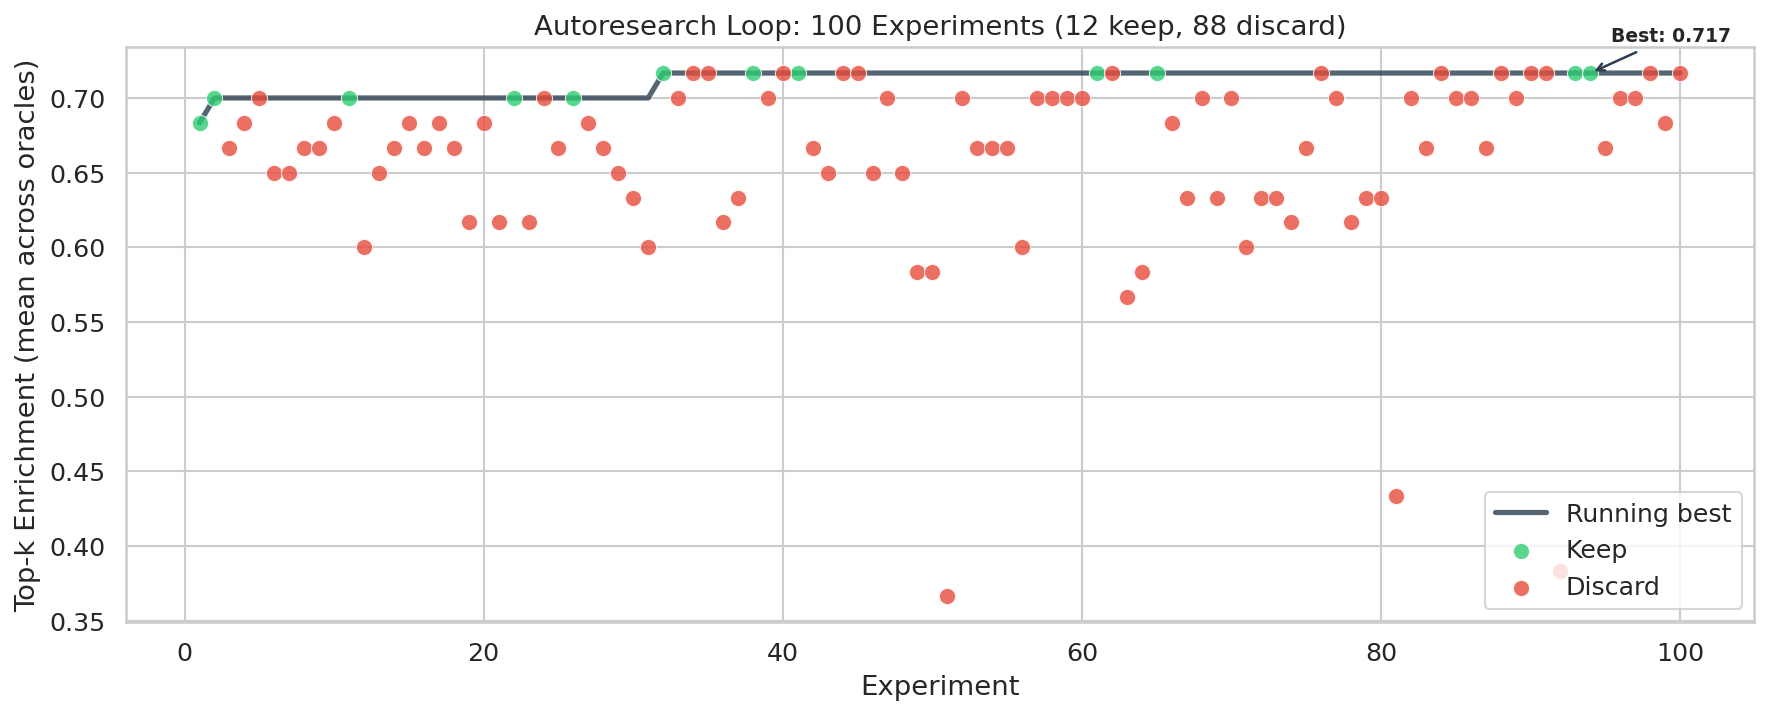
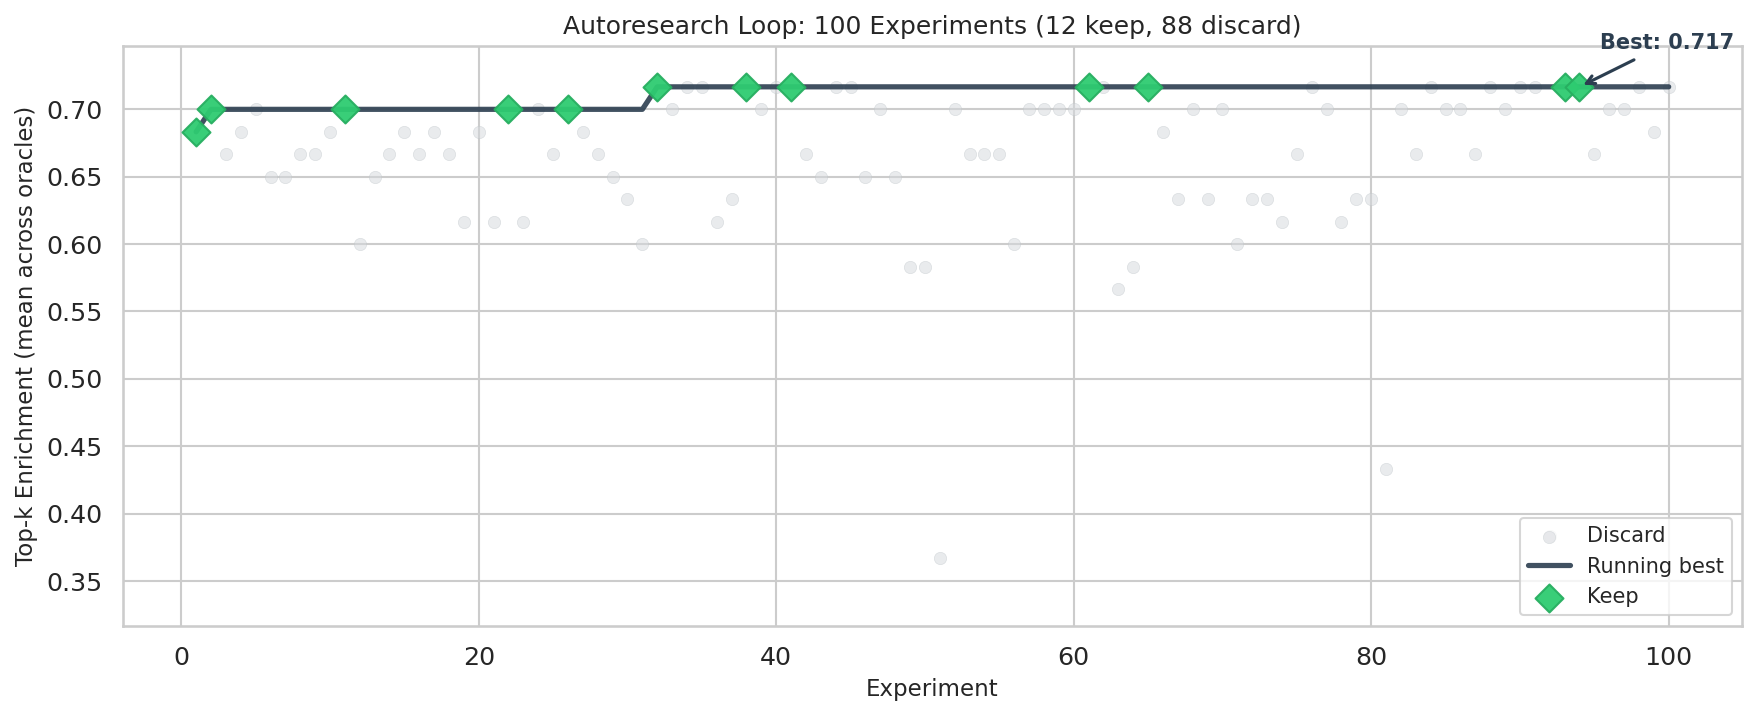
fix: fig2 use linear zoom, faded grey discards, green diamond keeps
Replaced symlog with zoomed linear ylim. Discards now faded grey
with 50% alpha. Keeps are green diamonds on top. Running-best line
clearly shows the staircase from 0.683 to 0.717.

diff --git a/src/analysis.py b/src/analysis.py
@@ -595,61 +595,87 @@ def figure2_loop_trajectory():
     results["iteration"] = range(1, len(results) + 1)
     results["topk_enrichment"] = results["topk_enrichment"].astype(float)
 
-    # Determine color by status
-    color_map = {
-        "keep": "#2ecc71",
-        "discard": "#e74c3c",
-        "baseline": "#3498db",
-        "crash": "#95a5a6",
-        "ambiguous": "#f39c12",
-    }
-    results["color"] = results["status"].map(color_map).fillna("#95a5a6")
-
     # Running best
     running_best = results["topk_enrichment"].cummax()
 
     fig, ax = plt.subplots(figsize=(12, 5))
 
-    # Plot running best line first (behind points)
-    ax.plot(results["iteration"], running_best, color="#2c3e50",
-            linewidth=2.5, alpha=0.8, label="Running best", zorder=1)
-
-    # Scatter by status
-    for status in ["keep", "discard", "baseline", "crash", "ambiguous"]:
-        mask = results["status"] == status
-        if not mask.any():
-            continue
+    # Plot discards FIRST (behind everything) in faded grey
+    mask_discard = results["status"] == "discard"
+    if mask_discard.any():
         ax.scatter(
-            results.loc[mask, "iteration"],
-            results.loc[mask, "topk_enrichment"],
-            c=color_map.get(status, "#95a5a6"),
-            label=status.capitalize(),
-            s=60, zorder=2, edgecolors="white", linewidth=0.5,
-            alpha=0.8,
+            results.loc[mask_discard, "iteration"],
+            results.loc[mask_discard, "topk_enrichment"],
+            c="#d5d8dc", label="Discard",
+            s=35, zorder=1, edgecolors="#bdc3c7", linewidth=0.3,
+            alpha=0.5,
         )
 
-    # Annotate key milestones
+    # Running best line (on top of discards, behind keeps)
+    ax.plot(results["iteration"], running_best, color="#2c3e50",
+            linewidth=2.5, alpha=0.9, label="Running best", zorder=2)
+
+    # Keep points (prominent, on top)
+    mask_keep = results["status"] == "keep"
+    if mask_keep.any():
+        ax.scatter(
+            results.loc[mask_keep, "iteration"],
+            results.loc[mask_keep, "topk_enrichment"],
+            c="#2ecc71", label="Keep",
+            s=90, zorder=3, edgecolors="#27ae60", linewidth=1.0,
+            alpha=0.95, marker="D",
+        )
+
+    # Baseline points
+    mask_baseline = results["status"] == "baseline"
+    if mask_baseline.any():
+        ax.scatter(
+            results.loc[mask_baseline, "iteration"],
+            results.loc[mask_baseline, "topk_enrichment"],
+            c="#3498db", label="Baseline",
+            s=70, zorder=3, edgecolors="#2980b9", linewidth=0.8,
+            alpha=0.9,
+        )
+
+    # Crash points
+    mask_crash = results["status"] == "crash"
+    if mask_crash.any():
+        ax.scatter(
+            results.loc[mask_crash, "iteration"],
+            results.loc[mask_crash, "topk_enrichment"],
+            c="#e74c3c", label="Crash",
+            s=50, zorder=3, edgecolors="white", linewidth=0.5,
+            marker="x",
+        )
+
+    # Annotate best result
     keeps = results[results["status"] == "keep"]
     if len(keeps) > 0:
-        first_keep = keeps.iloc[0]
         last_keep = keeps.iloc[-1]
         ax.annotate(
             f"Best: {last_keep['topk_enrichment']:.3f}",
             xy=(last_keep["iteration"], last_keep["topk_enrichment"]),
-            xytext=(10, 15), textcoords="offset points",
-            fontsize=9, fontweight="bold",
-            arrowprops=dict(arrowstyle="->", color="#2c3e50", lw=1.2),
+            xytext=(10, 18), textcoords="offset points",
+            fontsize=10, fontweight="bold", color="#2c3e50",
+            arrowprops=dict(arrowstyle="->", color="#2c3e50", lw=1.5),
         )
 
     n_keep = len(keeps)
-    n_discard = (results["status"] == "discard").sum()
+    n_discard = mask_discard.sum()
     n_total = len(results)
 
-    ax.set_xlabel("Experiment")
-    ax.set_ylabel("Top-k Enrichment (mean across oracles)")
+    # Zoom into the action range — use a broken y-axis effect by
+    # setting ylim to show the staircase clearly. Most discards are
+    # between 0.45-0.72, keeps are 0.68-0.72.
+    y_min = max(0.0, results["topk_enrichment"].min() - 0.05)
+    y_max = results["topk_enrichment"].max() + 0.03
+    ax.set_ylim(y_min, y_max)
+
+    ax.set_xlabel("Experiment", fontsize=11)
+    ax.set_ylabel("Top-k Enrichment (mean across oracles)", fontsize=11)
     ax.set_title(f"Autoresearch Loop: {n_total} Experiments "
-                 f"({n_keep} keep, {n_discard} discard)")
-    ax.legend(loc="lower right")
+                 f"({n_keep} keep, {n_discard} discard)", fontsize=12)
+    ax.legend(loc="lower right", fontsize=10)
     fig.tight_layout()
 
     FIGURES_DIR.mkdir(parents=True, exist_ok=True)
